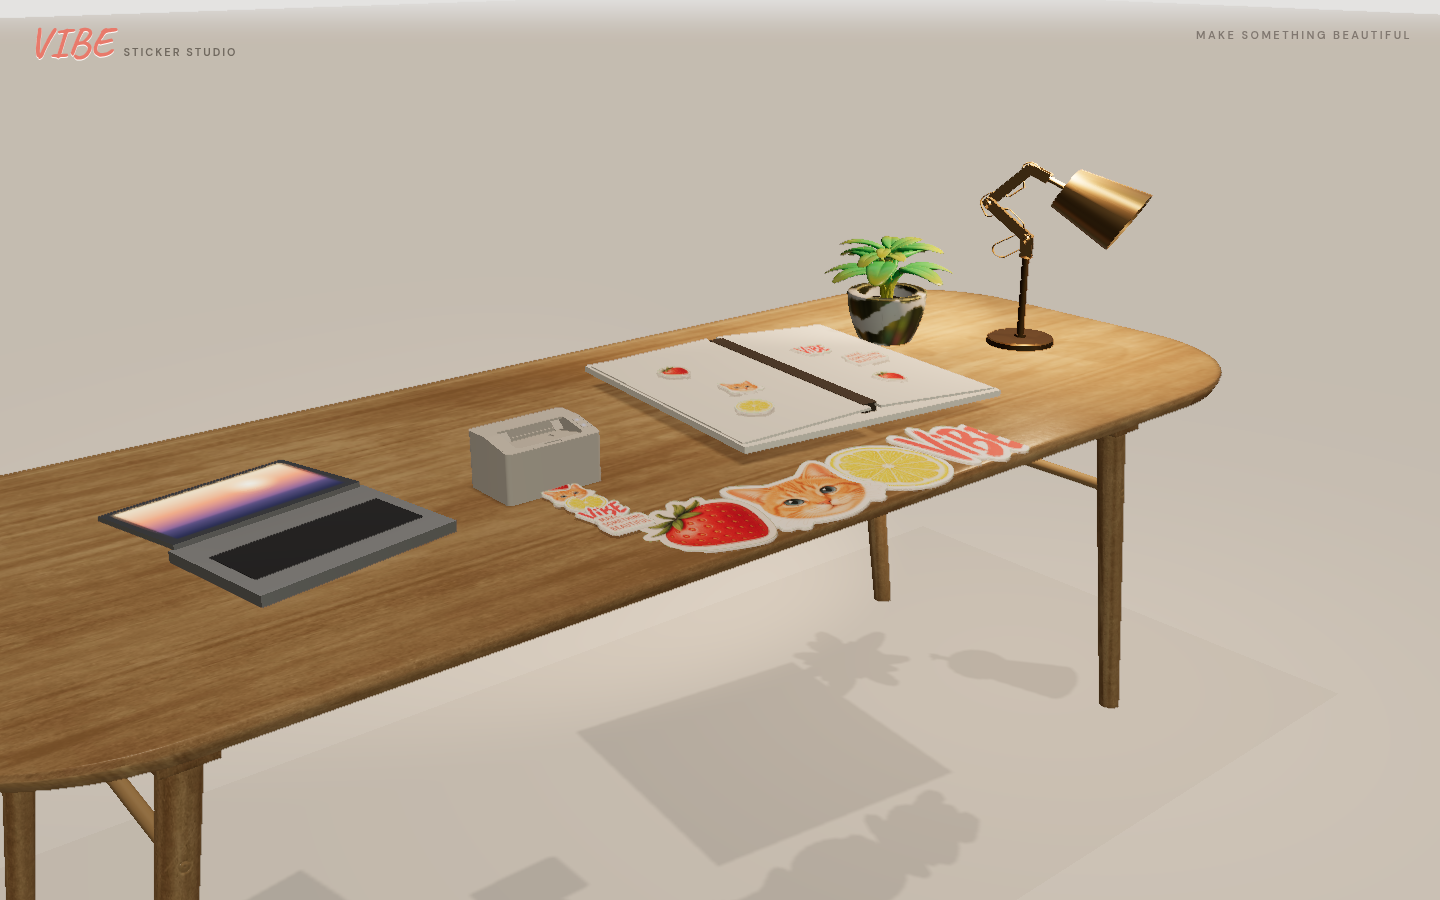
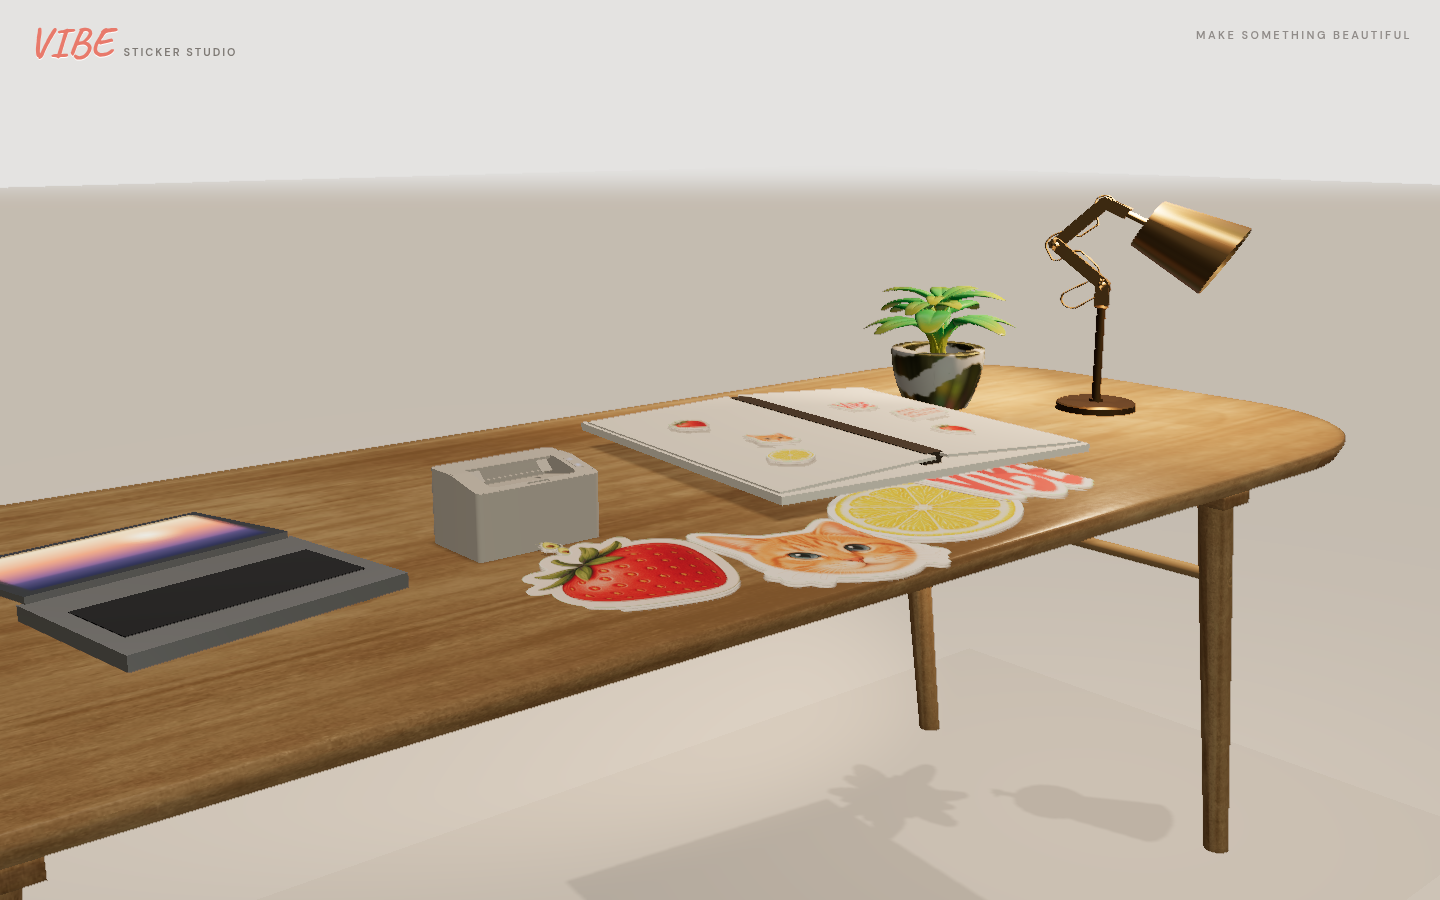
fix(studio): elev~13° intimacy + spit short chain vs LOCK hero row
- Desk camera elev ~13°, closer dist for across-desk LOCK framing
- Spit: 3 small flat-thick die-cuts at mouth only
- Foreground: large strawberry/cat/lemon/VIBE row separate on desk
- Refresh COMPARE + GAP

diff --git a/public/studio.html b/public/studio.html
@@ -176,14 +176,14 @@ function orbitCam(look, dist, elevDeg, azimDeg){
 // LAYOUT-CAMERA-SPEC defaults (refined after desk mounts)
 let tableTopY = 0.66;
 let camLook = new THREE.Vector3(0, tableTopY, -0.05);
-let camDesk = orbitCam(camLook, 2.3, 22, -40);
+let camDesk = orbitCam(camLook, 1.9, 14, -40);
 // Hero: same orbit, slightly farther / higher for floating stickers over desk
 let camHero = orbitCam(new THREE.Vector3(0, tableTopY + 0.35, 0.15), 4.2, 22, -38);
 function refreshCameras(){
-  // LOCK hero still: lower elev (~22°), push in — avoid isometric top-down
-  camLook.set(0.04, tableTopY + 0.01, 0.16);
-  camDesk = orbitCam(camLook, 2.05, 20, -40);
-  camHero = orbitCam(new THREE.Vector3(0.04, tableTopY + 0.36, 0.16), 2.95, 18, -40);
+  // LOCK: across-the-desk intimacy — elev 12–15°, push in (not shelf top-down)
+  camLook.set(0.08, tableTopY + 0.05, 0.06);
+  camDesk = orbitCam(camLook, 1.72, 13, -40);
+  camHero = orbitCam(new THREE.Vector3(0.08, tableTopY + 0.30, 0.08), 2.65, 13, -40);
 }
 const _camPos = new THREE.Vector3();
 const _camLook = new THREE.Vector3();
@@ -689,17 +689,16 @@ async function mountProps(){
 /** Spit a rigid thick-slab strip from printer mouth toward camera (LOCK). */
 function buildPrinterSpitStrip(){
   if (!printerGroup) return;
-  const pool = lockScatterTexList.length ? lockScatterTexList : stickerTexList;
+  // Short mouth chain only — use flat-thick pool, NEVER hero LOCK four
+  const pool = stickerTexList.length ? stickerTexList : lockScatterTexList;
   if (!pool.length) return;
 
   printerGroup.updateWorldMatrix(true, true);
-  // Local extents of printer mesh
   const bb = new THREE.Box3().setFromObject(printerGroup);
   const inv = new THREE.Matrix4().copy(printerGroup.matrixWorld).invert();
   const minL = bb.min.clone().applyMatrix4(inv);
   const maxL = bb.max.clone().applyMatrix4(inv);
   const midX = (minL.x + maxL.x) * 0.5;
-  // Prefer +Z local as mouth (desk front after layout); fall back if camera prefers -Z
   const mouthA = new THREE.Vector3(midX, 0.003, maxL.z);
   const mouthB = new THREE.Vector3(midX, 0.003, minL.z);
   const mouthWA = mouthA.clone(); printerGroup.localToWorld(mouthWA);
@@ -710,23 +709,22 @@ function buildPrinterSpitStrip(){
 
   const strip = new THREE.Group();
   strip.name = 'printerSpitStrip';
-  const n = 5;
+  const n = 3; // short chain 2–4
   for (let i = 0; i < n; i++){
     const pick = pool[i % pool.length];
     const aspect = (pick.w && pick.h) ? (pick.w / pick.h) : 1;
-    const h = 0.058;
+    const h = 0.030; // small mouth stickers
     const w = h * Math.min(1.2, Math.max(0.75, aspect));
-    const slab = createFlatThickSticker(w, h, pick.tex, 0.0045);
-    slab.rotation.set(-Math.PI / 2, (i - (n-1)/2) * 0.015, 0);
-    // Continuous from lip: first under mouth, step ~half sticker so no gap
-    const zOff = toward * (-0.008 + i * 0.040);
-    slab.position.set((i - (n-1)/2) * 0.0008, 0.0032, zOff);
-    const blob = makeBlobShadow(Math.max(w, h) * 0.72);
+    const slab = createFlatThickSticker(w, h, pick.tex, 0.004);
+    slab.rotation.set(-Math.PI / 2, (i - (n-1)/2) * 0.04, 0);
+    const zOff = toward * (-0.010 + i * 0.026);
+    slab.position.set((i - (n-1)/2) * 0.002, 0.003, zOff);
+    const blob = makeBlobShadow(Math.max(w, h) * 0.75);
     blob.position.set(slab.position.x + 0.002, 0.0008, slab.position.z + toward * 0.002);
-    blob.material.opacity = 0.16;
+    blob.material.opacity = 0.18;
     strip.add(slab, blob);
   }
-  strip.position.set(midX, 0.0028, mouthZ - toward * 0.004);
+  strip.position.set(midX, 0.0025, mouthZ - toward * 0.002);
   printerGroup.add(strip);
   printerGroup.userData.spitStrip = strip;
 }
@@ -1439,23 +1437,25 @@ refreshCameras(); applyCamera();
 
 // LOCK foreground row: 草莓/猫/柠檬/VIBE — flat on desk + clear rear shadow
 function placeLockRow(){
-  const xs = [-0.15, 0.02, 0.18, 0.34];
+  // LOCK hero foreground ONLY — strawberry/cat/lemon/VIBE large thick; NOT spit chain
+  const xs = [-0.22, -0.02, 0.18, 0.36];
+  const zs = [0.28, 0.34, 0.30, 0.26]; // on desk top (desk z≲0.55)
+  const yaws = [-0.12, 0.08, -0.06, 0.10];
   const picks = lockScatterTexList.length >= 4
     ? lockScatterTexList
     : stickerTexList;
   for (let i = 0; i < 4; i++){
     const pick = picks[i % picks.length];
-    // temporarily bias spawn pool by pushing pick to front of stickerTexList usage
     const aspect = (pick.w && pick.h) ? (pick.w / pick.h) : 1;
-    const size = 0.18;
+    const size = 0.22; // large hero thick stickers
     const w = size * Math.min(1.25, Math.max(0.75, aspect));
     const h = size;
-    const thickness = 0.004;
+    const thickness = 0.005;
     const group = createFlatThickSticker(w, h, pick.tex, thickness);
-    const sh = makeBlobShadow(size * 1.35);
-    const shSoft = makeBlobShadow(size * 1.7);
-    group.position.set(xs[i], topY + thickness * 0.5 + 0.005, 0.36);
-    group.rotation.set(-Math.PI / 2, (i - 1.5) * 0.08, 0);
+    const sh = makeBlobShadow(size * 1.25);
+    const shSoft = makeBlobShadow(size * 1.55);
+    group.position.set(xs[i], topY + thickness * 0.5 + 0.006, zs[i]);
+    group.rotation.set(-Math.PI / 2, yaws[i], 0);
     scene.add(group); scene.add(sh); scene.add(shSoft);
     const s = {
       group, front: group.userData.front, shadow: sh, shadowSoft: shSoft,

diff --git a/public/studio/webgl-assets/refs/GAP-NOTES.md b/public/studio/webgl-assets/refs/GAP-NOTES.md
@@ -1,16 +1,15 @@
-# GAP notes — analyst pass v28 (2026-10-31 Asia/Shanghai)
+# GAP notes — analyst pass v30 (2026-10-31 Asia/Shanghai)
 
-## Scope (only 4 items)
-1. **Camera → LOCK** — Desk orbit: fov35, elev **20°** (was ~28–30° top-down), azim **−40°**, dist **~2.05** (pushed in). Look slightly forward of desk center. Less isometric game feel; desk fills more of frame.
-2. **Laptop sit** — Micro-lift **+0.006** after seat + short contact blob under chassis (no sink into wood).
-3. **Steno no black card frame** — Dropped baked Steno cover maps; cream body `0xEDE6DA`; spread uses cream cover/pages + warm-brown spine only (not black card rim).
-4. **Spit chain readable** — 5 die-cut stickers ~0.058 tall, continuous steps from mouth lip; no white bar.
+## Scope (only 2 items)
+1. **Camera intimacy** — Desk orbit elev **~13°** (was ~20°), dist **~1.72**, azim **−40°**. Reads as across-the-desk three-quarter, not shelf top-down.
+2. **Composition split LOCK** — Spit = **3 small** die-cuts from `stickers-flat-thick` nest at mouth (not hero four). Foreground = strawberry/cat/lemon/VIBE **large** thick row on desk (scattered zs/yaws + rear blobs), separate from spit.
+
+## Accepted this round
+Steno / laptop / printer white / thin slabs / rounded desk.
 
 ## Still soft vs LOCK
-- Camera is lower but still a product-shelf three-quarter; LOCK hero may want even more “across the desk” intimacy.
-- Spit mouth flush can still show a tiny gap at some angles.
-- Thin dark Steno edge may remain from spiral mesh / page silhouette.
-- Overall “game UI” feel may need lighting/material polish beyond this 4-item scope.
+- Spit mouth flush can still be a hair short at some angles.
+- Floor soft pools remain (out of this 2-item scope).
 
 ## Verdict
 Ready for **another analyst feel-pass**. **Not** for end user.
